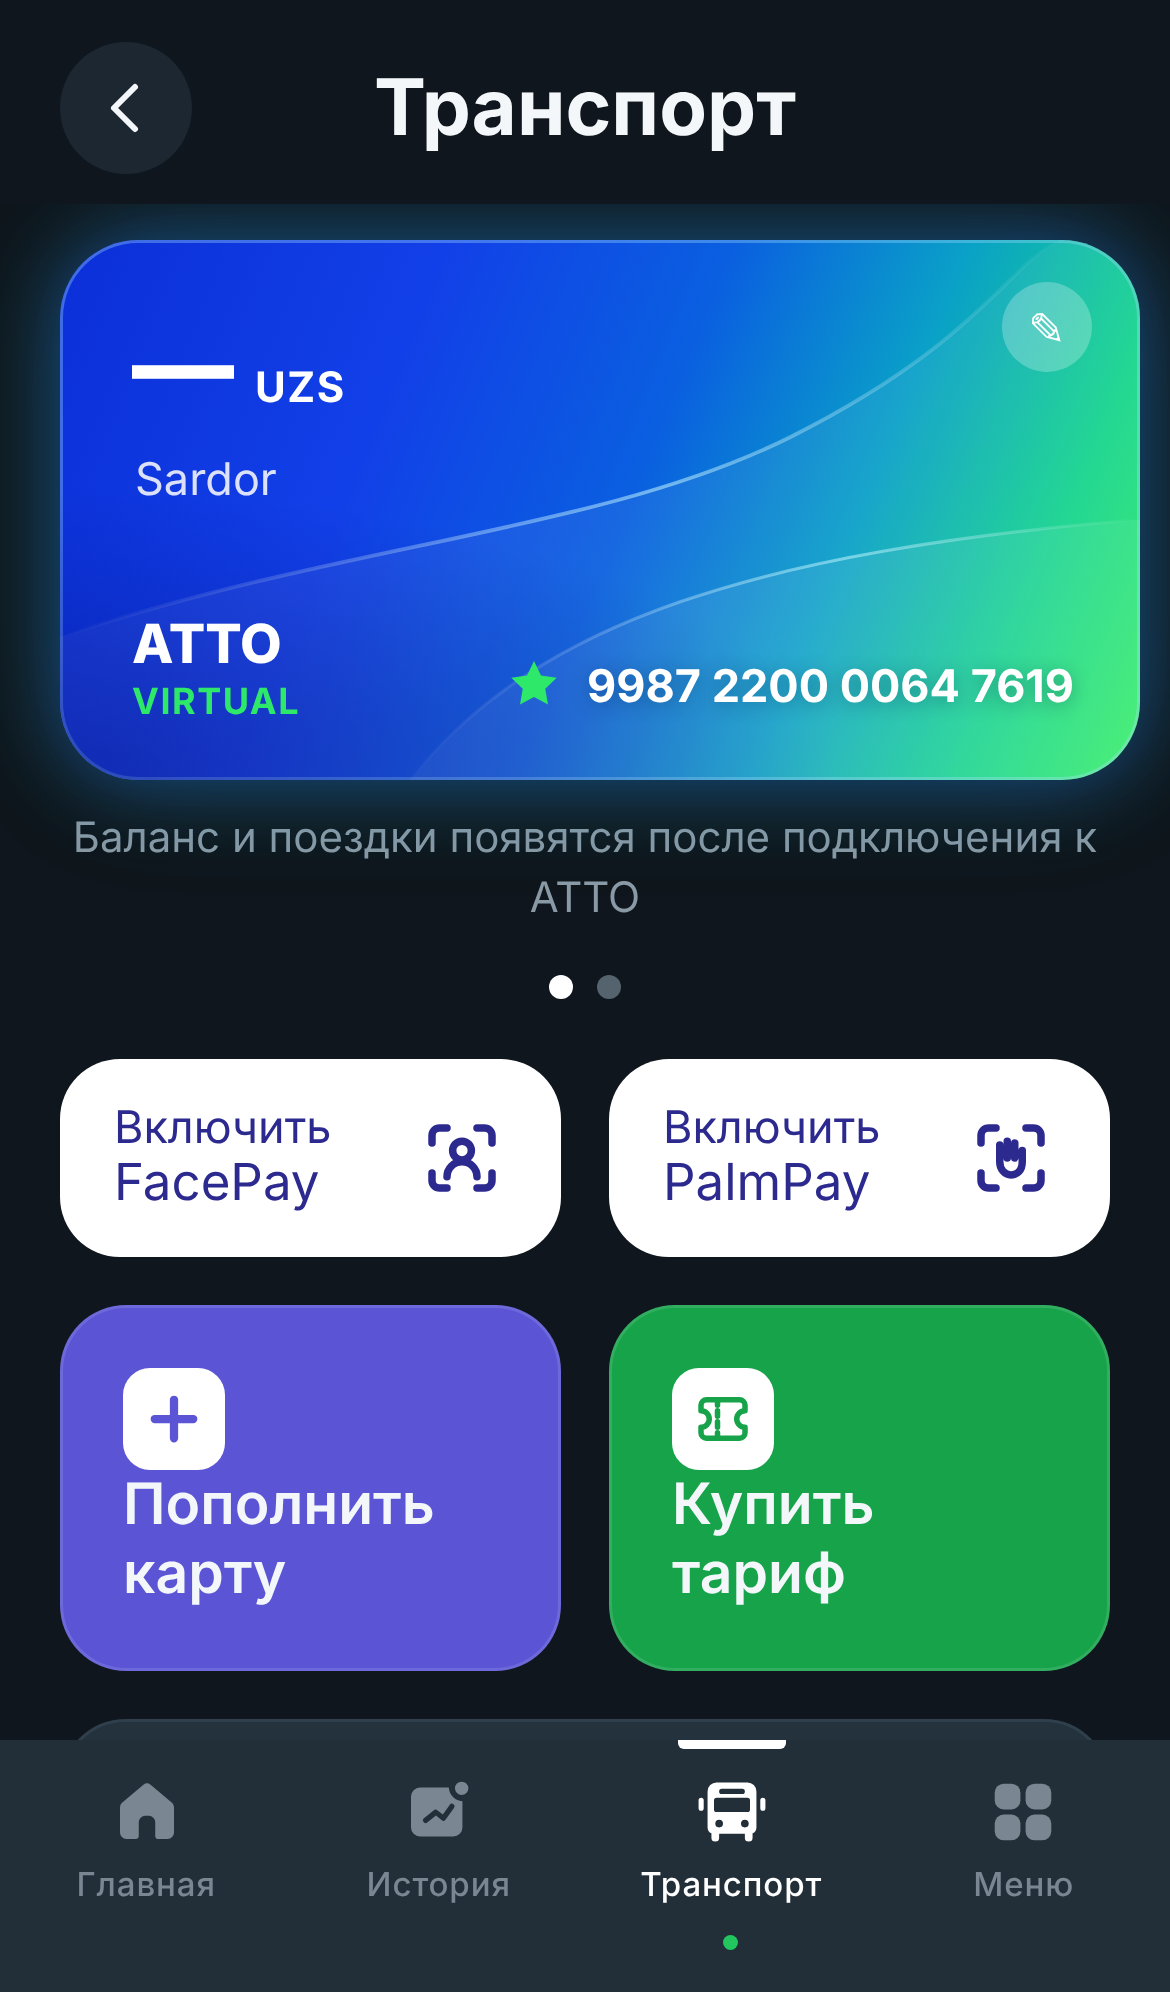
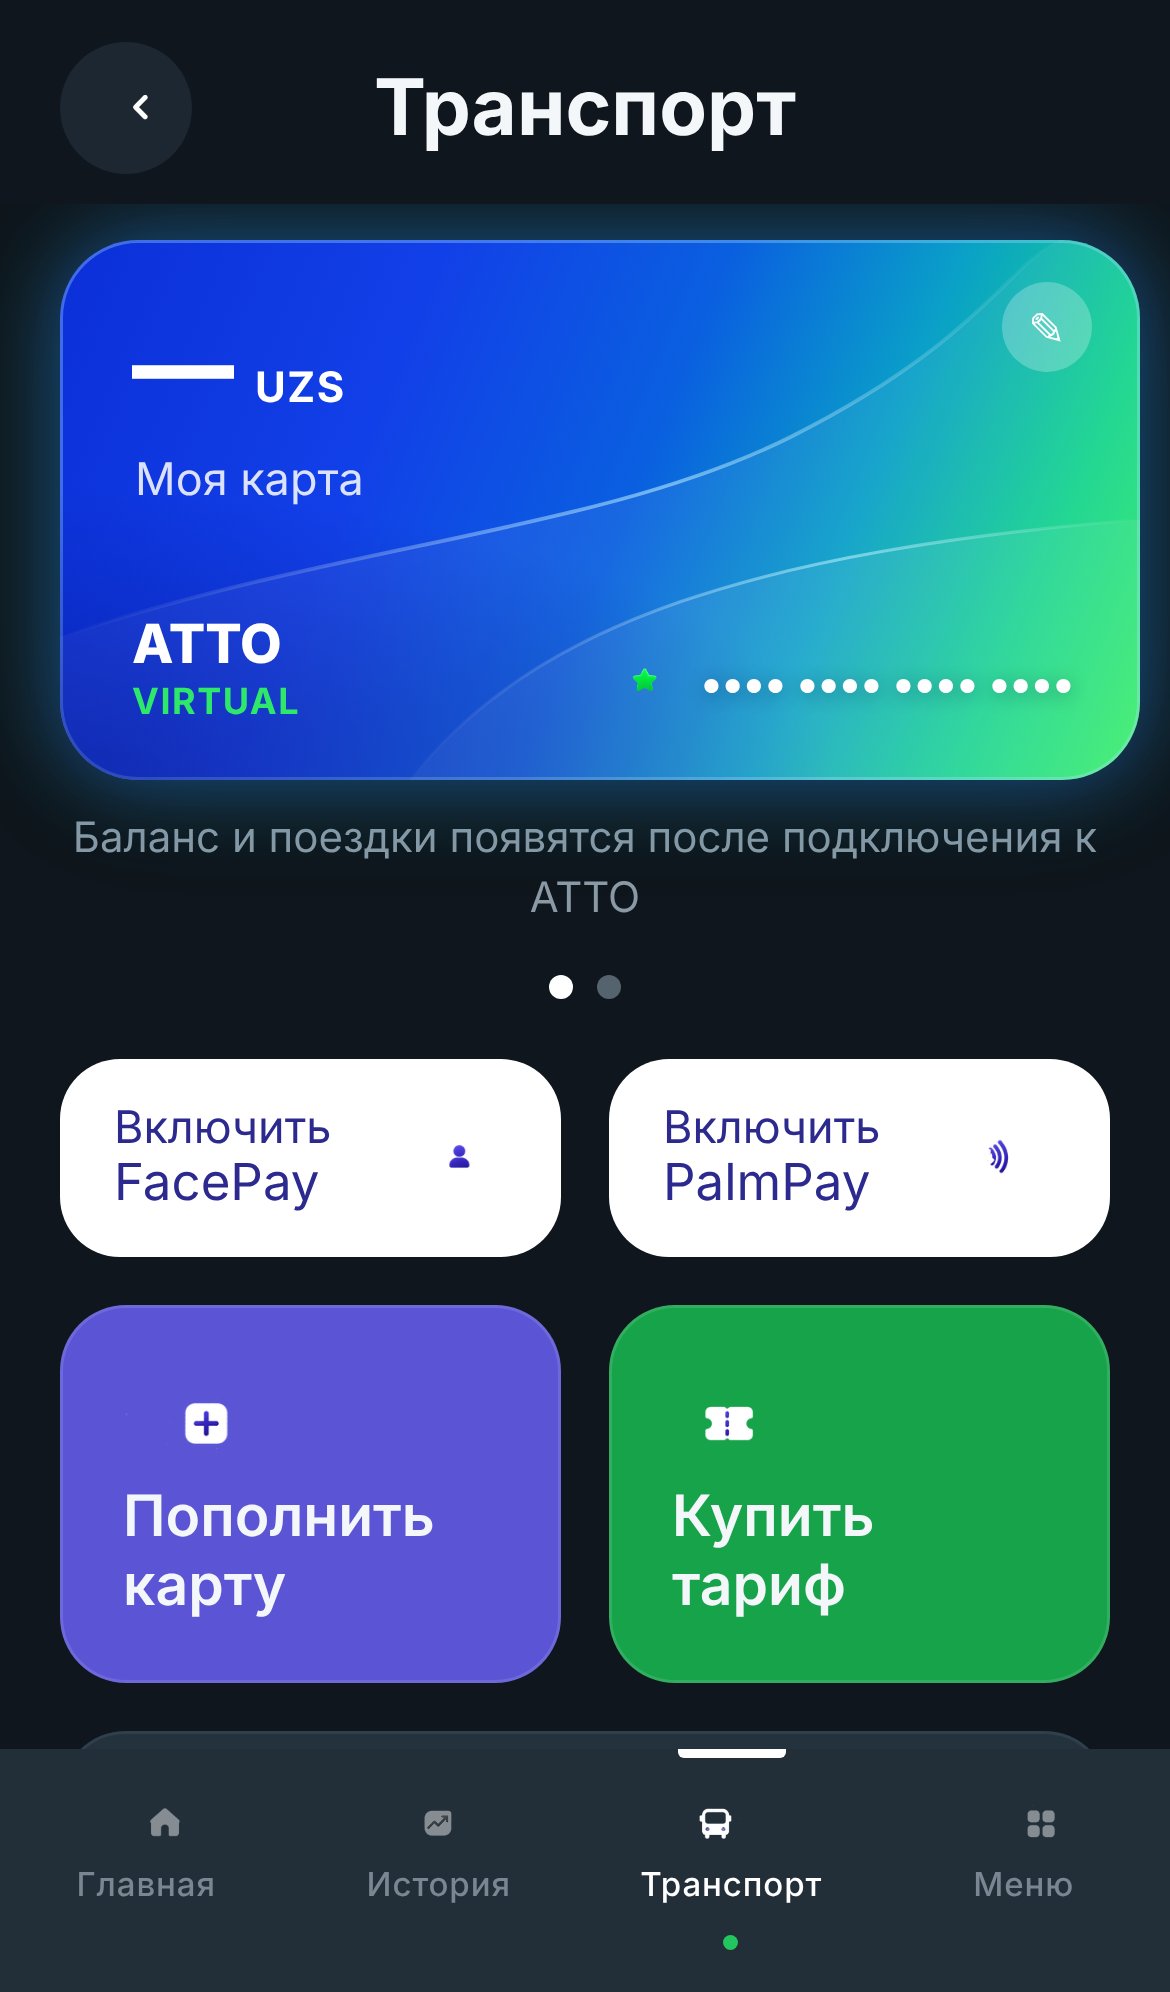
Konsept: foydalanuvchi bergan ikonlar to'plami ulandi (nav, karta, tugmalar)
Claude-Session: https://claude.ai/code/session_01KVTEyQMYscgZHJL55JKxj1

diff --git a/src/concept/ConceptApp.jsx b/src/concept/ConceptApp.jsx
@@ -8,6 +8,11 @@ import VirtualCard from './VirtualCard.jsx';
 
 const img = (n) => `/concept/${n}.png`;
 
+// Foydalanuvchi bergan ikonlar to'plami (public/concept/ic/)
+function Ic({ name, size = 28, className = '' }) {
+  return <img src={`/concept/ic/${name}.png`} alt="" width={size} height={size} className={className} style={{ objectFit: 'contain' }} />;
+}
+
 const TABS = [
   { id: 'home', label: 'Главная', icon: 'home' },
   { id: 'history', label: 'История', icon: 'history' },
@@ -107,7 +112,7 @@ export default function ConceptApp() {
       {page === 'transport' && (
         <>
           <header className="topbar">
-            <button className="round-btn" onClick={() => setPage('home')} aria-label="Назад"><Icon name="back" /></button>
+            <button className="round-btn" onClick={() => setPage('home')} aria-label="Назад"><Ic name="back" size={22} /></button>
             <div className="title">Транспорт</div><span className="spacer" />
           </header>
           <div className="screen">
@@ -121,13 +126,13 @@ export default function ConceptApp() {
             </p>
             <div className="dots"><i className="on" /><i /></div>
             <div className="grid2">
-              <button className="pill-btn" onClick={soon('FacePay')}><span><small>Включить</small>FacePay</span><Icon name="face" size={30} /></button>
-              <button className="pill-btn" onClick={soon('PalmPay')}><span><small>Включить</small>PalmPay</span><Icon name="palm" size={30} /></button>
-              <button className="action violet" onClick={soon('Пополнение карты')}><span className="ic"><Icon name="plus" size={22} strokeWidth={3} /></span>Пополнить карту</button>
-              <button className="action green" onClick={soon('Покупка тарифа')}><span className="ic"><Icon name="ticket" size={22} /></span>Купить тариф</button>
+              <button className="pill-btn" onClick={soon('FacePay')}><span><small>Включить</small>FacePay</span><Ic name="facepay" size={32} /></button>
+              <button className="pill-btn" onClick={soon('PalmPay')}><span><small>Включить</small>PalmPay</span><Ic name="palmpay" size={32} /></button>
+              <button className="action violet" onClick={soon('Пополнение карты')}><Ic name="plus" size={38} />Пополнить карту</button>
+              <button className="action green" onClick={soon('Покупка тарифа')}><Ic name="ticket" size={38} />Купить тариф</button>
             </div>
             <button className="wide-action" onClick={soon('QR Оплата')}>
-              <Icon name="qr" size={36} />
+              <Ic name="qr" size={36} />
               <div style={{ marginTop: 14 }}>QR Оплата<small>автобус, метро</small></div>
             </button>
           </div>
@@ -171,7 +176,7 @@ export default function ConceptApp() {
         <nav className="tabbar">
           {TABS.map((t) => (
             <button key={t.id} className={`tab ${page === t.id ? 'on' : ''}`} onClick={() => setPage(t.id)}>
-              <NavIcon name={t.icon} />{t.label}
+              <Ic name={t.icon === 'history' ? 'chart' : t.icon} size={26} className="tabic" />{t.label}
             </button>
           ))}
         </nav>

diff --git a/src/styles.css b/src/styles.css
@@ -226,3 +226,7 @@ code { background: var(--surface-2); padding: 2px 6px; border-radius: 6px; font-
 .vcard-brand small { display: block; color: #2ee86a; font-size: 12px; font-weight: 700; letter-spacing: .5px; margin-top: 3px; }
 .vcard-num { position: absolute; right: 22px; bottom: 22px; display: flex; align-items: center; gap: 8px; font-weight: 700; font-size: 15px; white-space: nowrap; text-shadow: 0 1px 6px rgba(0, 40, 80, .35); }
 .vcard-edit { position: absolute; right: 16px; top: 14px; width: 30px; height: 30px; border-radius: 50%; background: rgba(255,255,255,.25); color: #fff; font-size: 15px; display: grid; place-items: center; }
+/* Konsept: foydalanuvchi bergan png ikonlar */
+.tab .tabic { opacity: .45; filter: grayscale(1) brightness(1.4); transition: opacity .15s; }
+.tab.on .tabic { opacity: 1; filter: none; }
+.action .tabic, .action img { margin-bottom: auto; }

diff --git a/src/concept/VirtualCard.jsx b/src/concept/VirtualCard.jsx
@@ -20,7 +20,7 @@ export default function VirtualCard({ balance = '—', holder = 'aau', number = 
       <div className="vcard-holder">{holder}</div>
       <div className="vcard-brand">ATTO<small>VIRTUAL</small></div>
       <div className="vcard-num">
-        <svg viewBox="0 0 24 24" width="20" height="20" aria-hidden="true"><path d="M12 2.8l2.8 5.8 6.3.9-4.6 4.4 1.1 6.3L12 17.2l-5.6 3 1.1-6.3-4.6-4.4 6.3-.9z" fill="#2ee86a" /></svg>
+        <img src="/concept/ic/star.png" alt="" width="22" height="22" />
         {number}
       </div>
       {onEdit && <button className="vcard-edit" onClick={onEdit} aria-label="Изменить карту">✎</button>}
